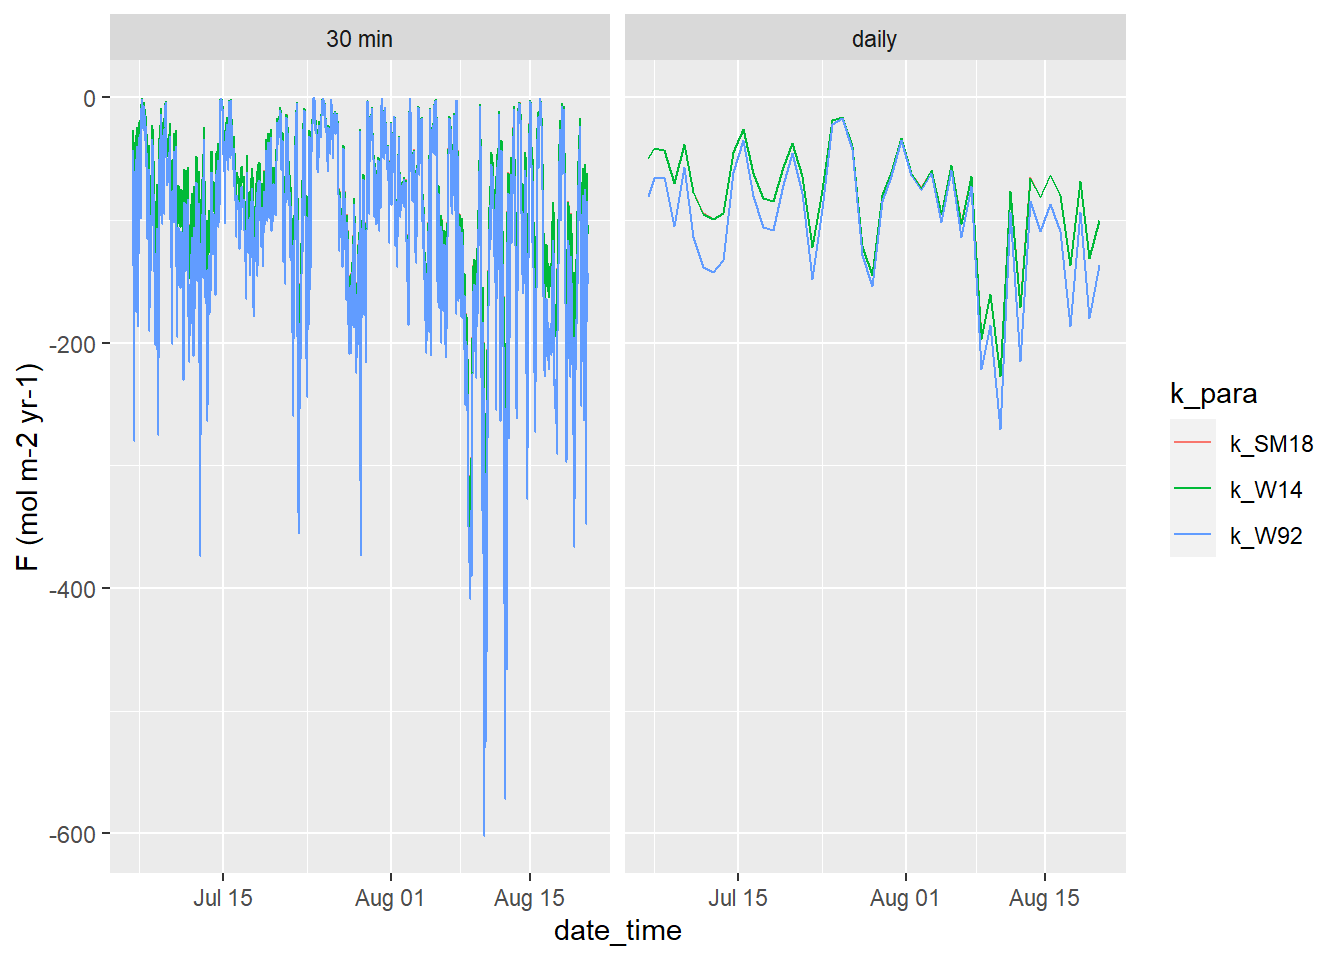
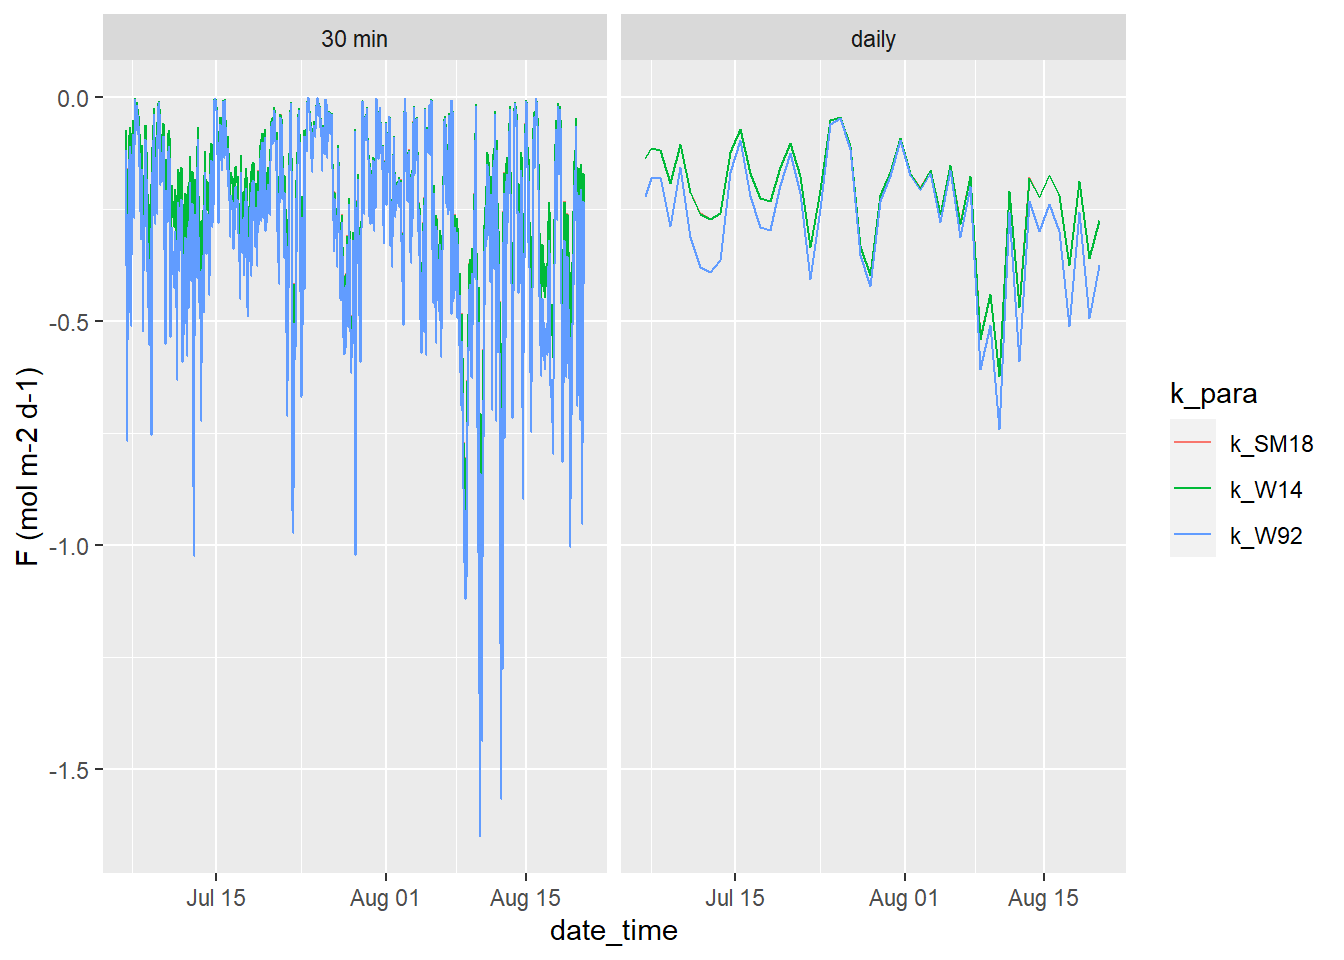
Build site.

diff --git a/docs/gas_exchange.html b/docs/gas_exchange.html
@@ -539,10 +539,10 @@ This reproducible <a href="http://rmarkdown.rstudio.com">R Markdown</a> analysis
 <div class="panel panel-default">
 <div class="panel-heading">
 <p class="panel-title">
-<a data-toggle="collapse" data-parent="#workflowr-checks" href="#strongRepositoryversionstrongahrefhttpsgithubcomjensdanielmuellerBloomSailtreecab4241d84d9e7120cbe18704f6edd200c009d86targetblankcab4241a"> <span class="glyphicon glyphicon-ok text-success" aria-hidden="true"></span> <strong>Repository version:</strong> <a href="https://github.com/jens-daniel-mueller/BloomSail/tree/cab4241d84d9e7120cbe18704f6edd200c009d86" target="_blank">cab4241</a> </a>
+<a data-toggle="collapse" data-parent="#workflowr-checks" href="#strongRepositoryversionstrongahrefhttpsgithubcomjensdanielmuellerBloomSailtree9d13f18191e027c504d7f0864a7b7f5715c72baatargetblank9d13f18a"> <span class="glyphicon glyphicon-ok text-success" aria-hidden="true"></span> <strong>Repository version:</strong> <a href="https://github.com/jens-daniel-mueller/BloomSail/tree/9d13f18191e027c504d7f0864a7b7f5715c72baa" target="_blank">9d13f18</a> </a>
 </p>
 </div>
[2 lines of base64/hex data omitted]
 <div class="panel-body">
 <p>
 Great! You are using Git for version control. Tracking code development and connecting the code version to the results is critical for reproducibility. The version displayed above was the version of the Git repository at the time these results were generated. <br><br> Note that you need to be careful to ensure that all relevant files for the analysis have been committed to Git prior to generating the results (you can use <code>wflow_publish</code> or <code>wflow_git_commit</code>). workflowr only checks the R Markdown file, but you know if there are other scripts or data files that it depends on. Below is the status of the Git repository when the results were generated:
@@ -588,6 +588,7 @@ library(marelac)
 library(seacarb)</code></pre>
 <div id="sensor-data" class="section level1">
 <h1><span class="header-section-number">1</span> Sensor data</h1>
+<p>The cruise mean pCO<sub>2</sub> recorded in profiling-mode (stations only) and depths &lt; 3m was used for gas exchange calcualtions.</p>
 <pre class="r"><code>water &lt;-
   read_csv(here::here(&quot;Data/_merged_data_files&quot;, &quot;BloomSail_CTD_HydroC_CT.csv&quot;))
 
@@ -644,14 +645,7 @@ df &lt;- df %&gt;%
          wind = na.approx(wind, rule = 2)) %&gt;% 
   filter(!is.na(pCO2_air))
 
-df %&gt;% 
-  ggplot(aes(date_time, pCO2_water))+
-  geom_point(data=water, aes(date_time, pCO2_water, col=&quot;measured&quot;))+
-  geom_path()+
-  geom_point()+
-  geom_point(data = df, aes(date_time, pCO2_water, col=&quot;interpol&quot;))</code></pre>
-<p><img src="figure/gas_exchange.Rmd/join_interpolate_wind_water_data-1.png" width="672" style="display: block; margin: auto;" /></p>
-<pre class="r"><code>df_daily &lt;- df %&gt;% 
+df_daily &lt;- df %&gt;% 
   mutate(day = yday(date_time)) %&gt;% 
   group_by(day) %&gt;% 
   summarise_all(mean, na.rm = TRUE) %&gt;% 
@@ -679,16 +673,19 @@ df_long %&gt;%
 </div>
 <div id="gas-exchange" class="section level1">
 <h1><span class="header-section-number">3</span> Gas exchange</h1>
-<p>F = k * K0 * dpCO2 = k * dCO2</p>
+<p>F = k * dCO2</p>
+<p>with</p>
+<p>dCO2 = K0 * dpCO2 and</p>
+<p>k = coeff * U^2 * (660/Sc)^0.5</p>
 <p>Units used here are:</p>
 <ul>
-<li>pCO<sub>2</sub>: µatm</li>
+<li>dpCO<sub>2</sub>: µatm</li>
 <li>K0: mol atm-1 kg-1</li>
-<li><p>CO<sub>2</sub>: µmol kg-1</p></li>
+<li><p>dCO<sub>2</sub>: µmol kg-1</p></li>
 <li><p>wind speed U: m s-1</p></li>
 <li>gas transfer velocities k: cm hr-1 (= 60<em>60</em>100 m s-1)</li>
-<li><p>Air sea CO<sub>2</sub> flux F: mol m–2 yr–1 (= 365 * mol m–2 d–1)</p></li>
-<li><p>Coefficient for k calculation (eg 0.251 in W14): cm hr-1 (m s-1)-2</p></li>
+<li><p>air sea CO<sub>2</sub> flux F: mol m–2 yr–1 (= 365 * mol m–2 d–1)</p></li>
+<li><p>coeff for k calculation (eg 0.251 in W14): cm hr-1 (m s-1)-2</p></li>
 </ul>
 <p>W14_simplyfied: F = 7.7 * 10–4 * U2 * dpCO2</p>
 <pre class="r"><code>Sc_W14 &lt;- function(tem) {
@@ -699,29 +696,29 @@ Sc_W14(20)</code></pre>
 <pre><code>[1] 668.344</code></pre>
 <pre class="r"><code>df &lt;- df %&gt;% 
   mutate(dpCO2 = pCO2_water - pCO2_air,
-         dCO2  = dpCO2 * K0(S=7, T=tem),
+         dCO2  = dpCO2 * K0(S=6.92, T=tem),
          k_W92 = gas_transfer(t = tem, u10 = wind, species = &quot;CO2&quot;, method = &quot;Wanninkhof1&quot;)* 60^2 * 100,
          k_W14 = 0.251 * wind^2 * (Sc_W14(tem)/660)^(-0.5),
          #F_W14_simple = 7.7 * 10^(–4) wind^2,
          k_SM18 = 0.24 * wind^2 * ((1943-119.6*tem + 3.488*tem^2 - 0.0417*tem^3) / 660)^(-0.5)) %&gt;% 
   pivot_longer(9:11, names_to = &quot;k_para&quot;, values_to = &quot;k_value&quot;)
 
-# calculate flux F [mol m–2 yr–1]
+# calculate flux F [mol m–2 d–1]
 
 df &lt;- df %&gt;% 
-  mutate(flux = k_value*dCO2) 
+  mutate(flux = k_value*dCO2/365) 
 
 
 df %&gt;% 
   ggplot(aes(date_time, flux, col=k_para))+
   geom_line()+
-  labs(y=&quot;F (mol m-2 yr-1)&quot;)+
+  labs(y=&quot;F (mol m-2 d-1)&quot;)+
   facet_wrap(~freq)</code></pre>
 <p><img src="figure/gas_exchange.Rmd/gas_exchange_calc_daily-1.png" width="672" style="display: block; margin: auto;" /></p>
 <pre class="r"><code># scale flux to time interval
 
 df &lt;- df %&gt;% 
-  mutate(scale = if_else(freq == &quot;daily&quot;, 365, 365*24*2)) %&gt;% 
+  mutate(scale = if_else(freq == &quot;daily&quot;, 1, 24*2)) %&gt;% 
   mutate(flux = flux / scale) %&gt;% 
   group_by(freq, k_para) %&gt;% 
   arrange(date_time) %&gt;% 
